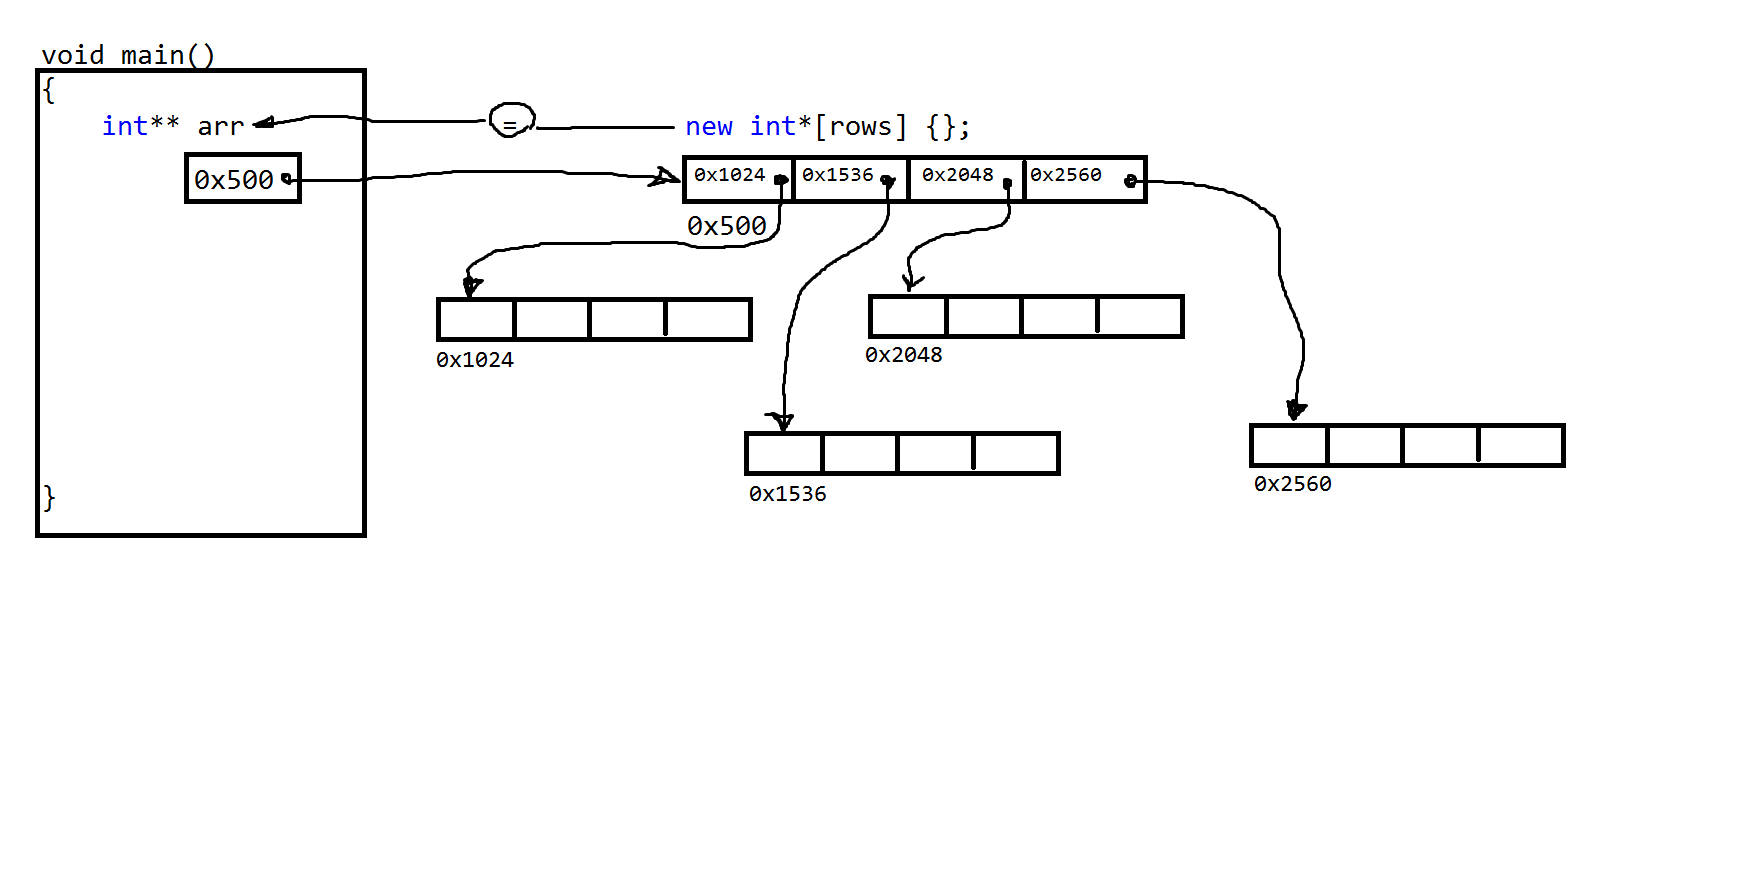
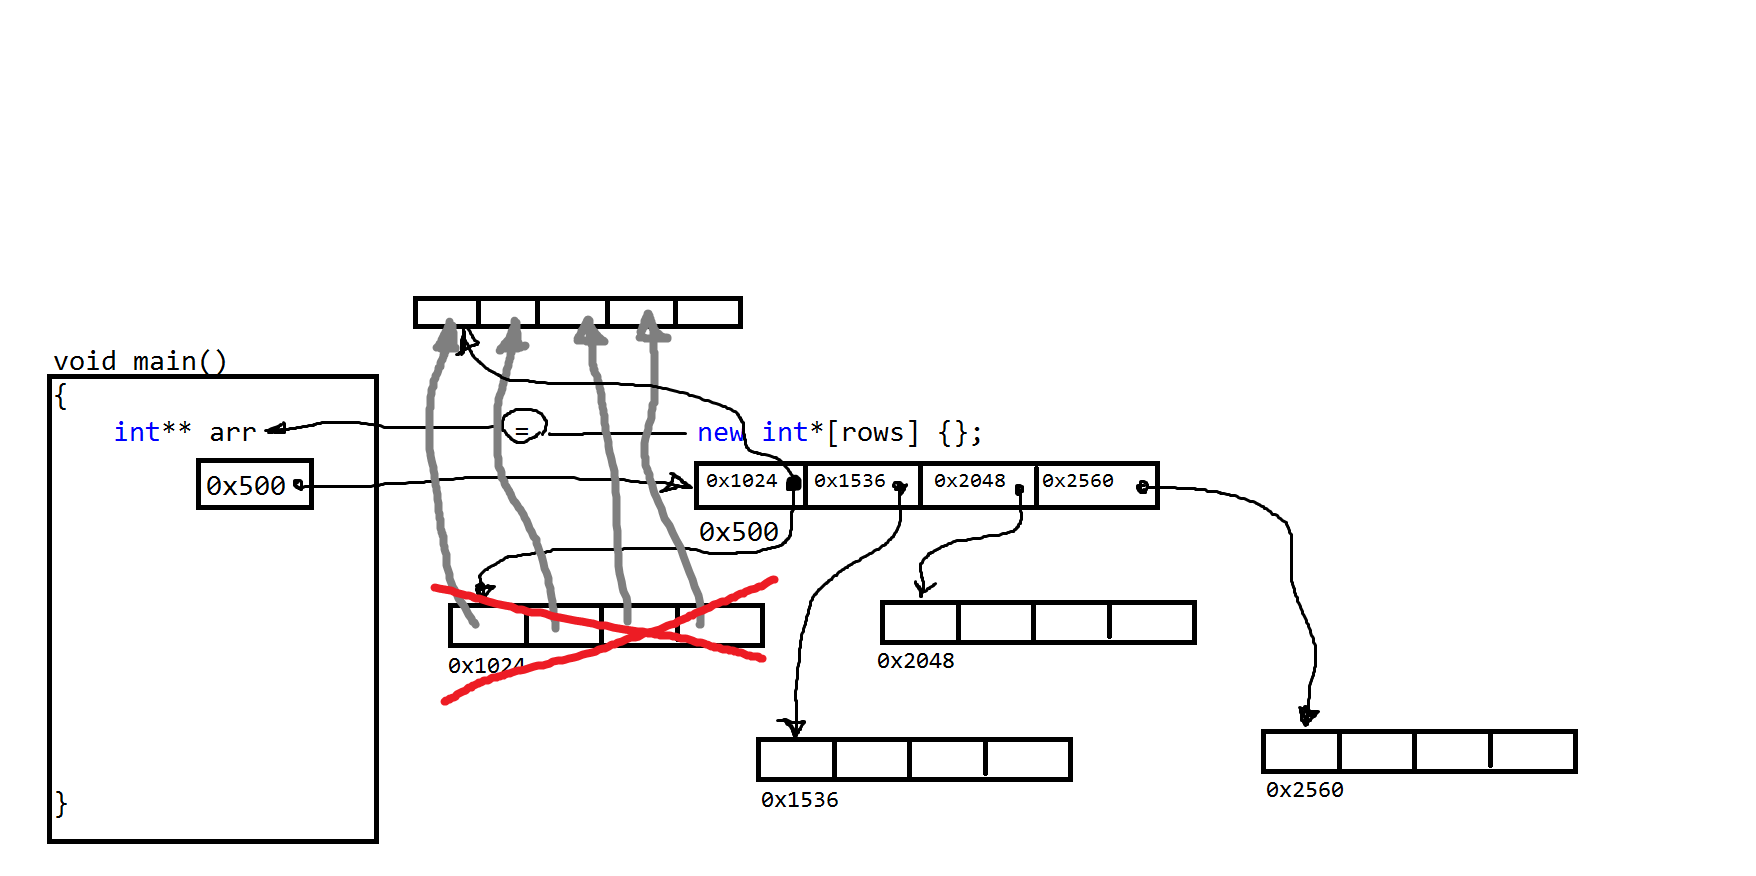
push_col_back

diff --git a/Pointers/DynamicArrays/main.cpp b/Pointers/DynamicArrays/main.cpp
@@ -13,7 +13,7 @@ void Print(int** arr, const int rows, const int cols);
 int* push_back(int arr[], int& n, int value);
 int* insert(int arr[], int& n, int value, int index);
 
-int** push_row_back(int** arr, int& rows, const int cols);
+void push_row_back(int**& arr, int& rows, const int cols);
 int** push_row_front(int** arr, int& rows, const int cols);
 int** pop_row_back(int** arr, int& rows, const int cols);
 
@@ -69,11 +69,11 @@ void main()
 	Print(arr, rows, cols);
 	cout << delimiter << endl;
 	cout << "Добавление строки в конец:\n";
-	arr = push_row_back(arr, rows, cols);
+	push_row_back(arr, rows, cols);
 	FillRand(arr[rows - 1], cols, 200, 1000);
 	Print(arr, rows, cols);
 	cout << "Удавление строки с конца:\n";
-	arr = pop_row_back(arr, rows, cols);
+	pop_row_back(arr, rows, cols);
 	Print(arr, rows, cols);
 	cout << "Добавление столбца в конец:\n";
 	push_col_back(arr, rows, cols);
@@ -185,7 +185,7 @@ int* insert(int arr[], int& n, int value, int index)
 	return buffer;
 }
 
-int** push_row_back(int** arr, int& rows, const int cols)
+int** push_row_back(int**& arr, int& rows, const int cols)
 {
 	//Переопределяем массив указателей:
 	//1) Создаем буферный массив указателей, размером на 1 элемент больше:
@@ -201,8 +201,10 @@ int** push_row_back(int** arr, int& rows, const int cols)
 	buffer[rows] = new int[cols] {};
 	//5) После того, как в массив добавилась строка, количество его строк увеличилось на 1:
 	rows++;
+	arr = buffer;
 	//6) Возвращаем новый массив на место вызова:
-	return buffer;
+	//return buffer;
+	return arr;
 }
 int** pop_row_back(int** arr, int& rows, const int cols)
 {
